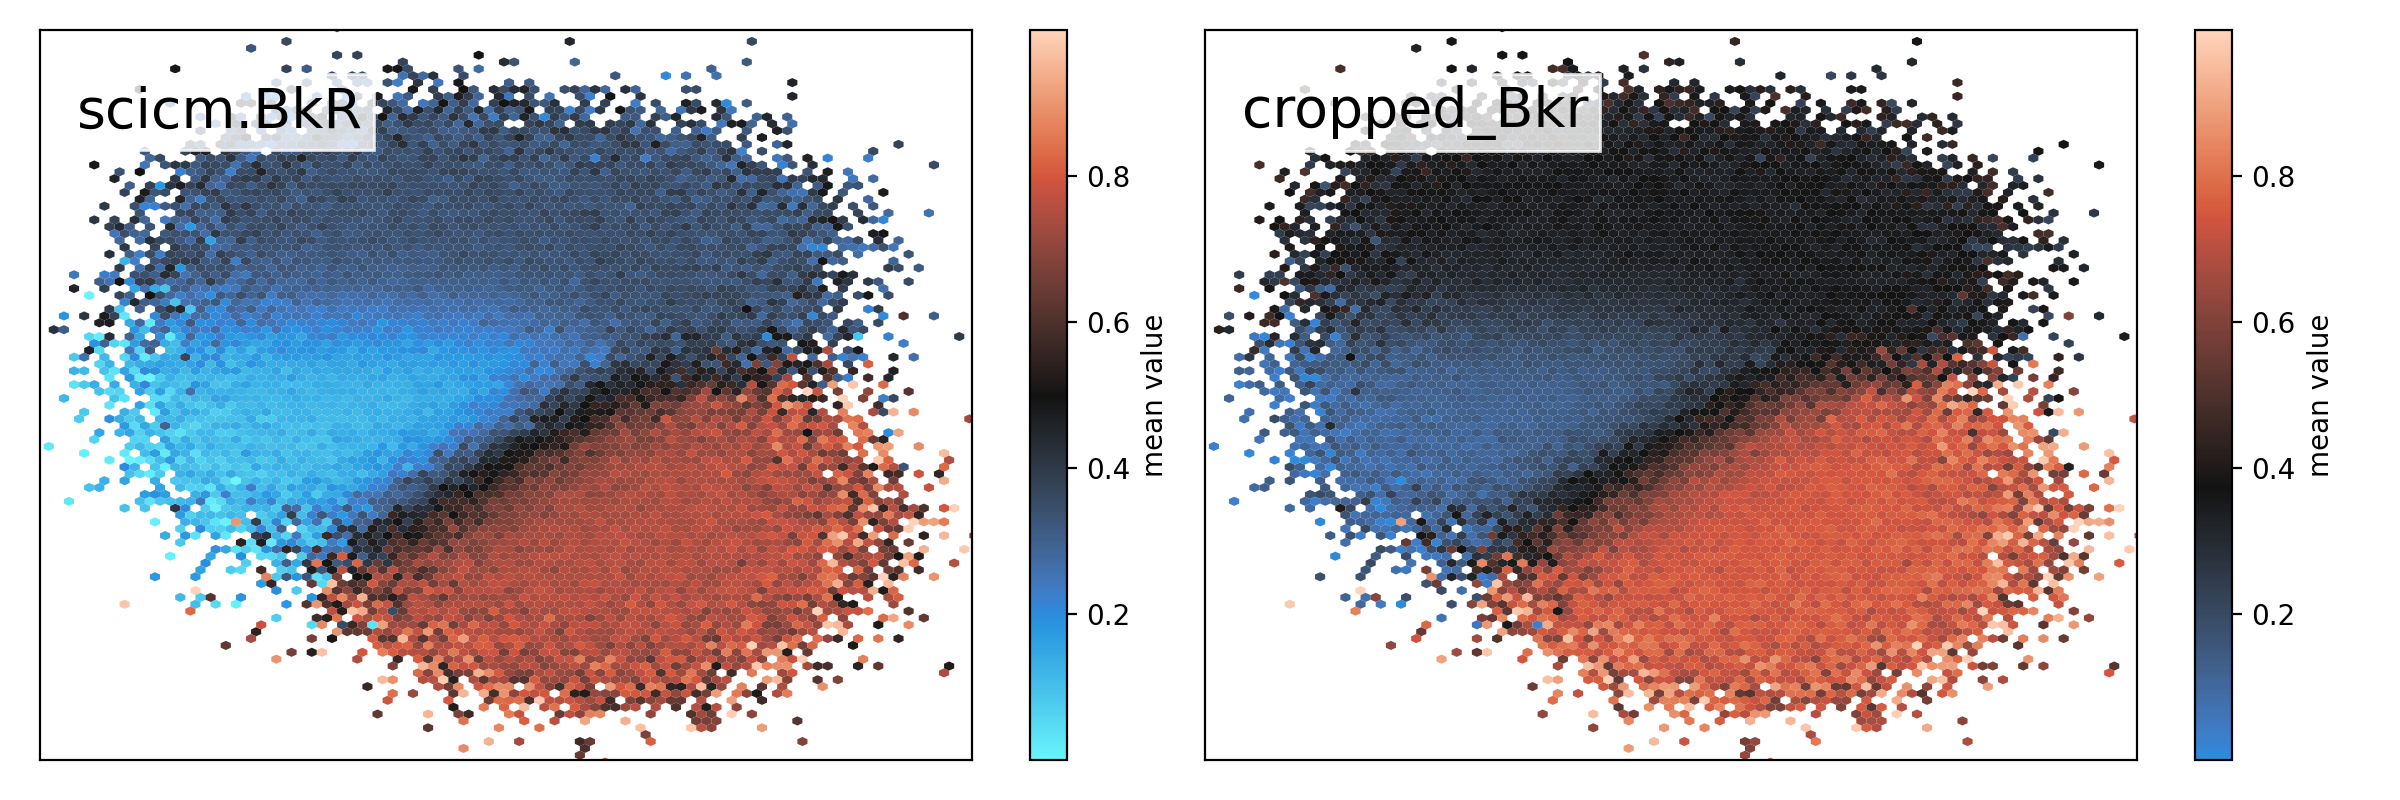
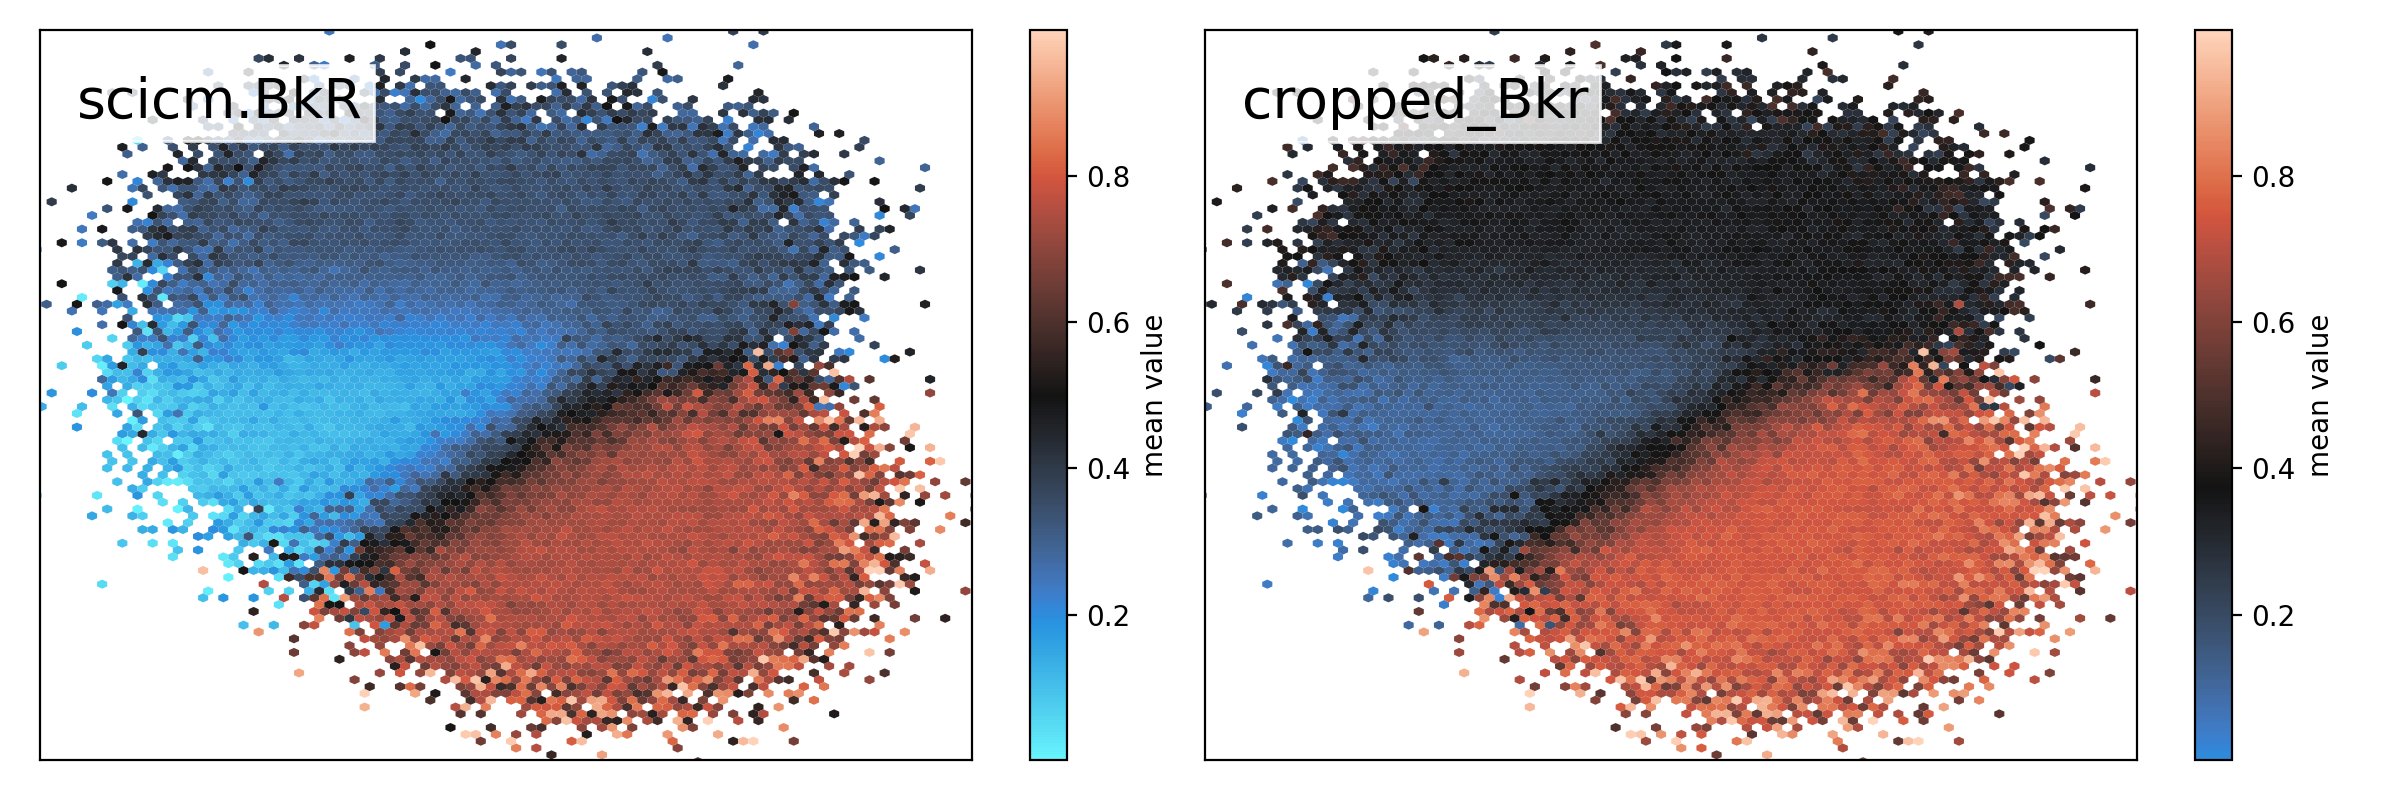
Fixing the image's links for the description in PyPI

diff --git a/README.md b/README.md
@@ -19,22 +19,22 @@ Upon importing scicm, the colour maps are registered with matplotlib, so they ca
 
 #### Monochromatic colour maps
 The first set of colour maps are meant as a replacement for the sequential colour maps from matplotlib. All are designed with the same dynamic range in lightness, which means that small value changes are equally distinct. The first set contains the colour maps designed as general-purpose, being not only perceptually linear but also lacking strong hue changes, which could mistakenly lead the eye to certain value ranges. This *near-constant* hue also ensures that they are all colourblind-friendly.
-![cmaps0](/examples/scicm_monochromatic.png)
+![](https://github.com/MBravoS/scicm/raw/master/examples/scicm_monochromatic.png)
 <br><br>
 
 #### Soft monochromatic colour maps
 A not uncommon use of colour maps is to display images/data on top of which further lines/markers will be drawn on top (e.g., drawing contours on top of an image), which can make the choice of colour for said lines/markers challenging, particularly if they overlap both light and dark areas of the image. Making the colour map lighter/darker with [alpha compositing](https://en.wikipedia.org/wiki/Alpha_compositing) is a common approach, but this makes the resulting maps non-perceptually linear. For this reason, this set offers ligther and less saturated versions of the monochromatic colour maps. This enables both a linear representation of the underlying data and increased visibility of lines/markers drawn on top. If this is not a concern, we recomend using maps from the monochromatic set, as they have a larger lightness dynamic range.
-![cmaps0](/examples/scicm_soft.png)
+![](https://github.com/MBravoS/scicm/raw/master/examples/scicm_soft.png)
 <br><br>
 
 #### Bichromatic colour maps
 The colour maps in this set contain small and simple hue changes compared to the monochromatic set, intended to transition from one hue to the other roughly halfway in the value range. These colour maps should be used when a greater differentiation between low and high values is desired. Not all of these maps are as colourblind-friendly, so we recommend checking the viscm visualisations before choosing one.
-![cmaps1](/examples/scicm_bichromatic.png)
+![](https://github.com/MBravoS/scicm/raw/master/examples/scicm_bichromatic.png)
 <br><br>
 
 #### Diverging colour maps
 This set is composed of diverging colour maps, which are intended to be used only when visualising data that is centered around a critical value. In most cases, the middle point is the darkest, as this clearly distinguishes the middle values from lack of data without the need to set the figure background to a colour other than white. The two colour maps that have a light middle point (*BwR* and *GwP*) add choices for cases where that is not a concern. All these colour maps span the same dynamic range in lightness on each side and across maps and are intended to be colourblind-friendly to a good degree. For ease of use, all these colourmaps are also registered with their inverse names (e.g., *PkG*, which is equivalent to *GkP_r*).
-![cmaps2](/examples/scicm_diverging.png)
+![](https://github.com/MBravoS/scicm/raw/master/examples/scicm_diverging.png)
 <br><br>
 
 #### Miscellaneous colour maps
@@ -43,7 +43,7 @@ The last set is composed of colour maps with special use cases:
 - *Garnet*, *Ripe* and *Tropical*: Linear colour maps that have been designed for plots where the intention is to highlight broad regions of the data through large variations in hue. For this purpose, they have been designed with less than half of the lightness dynamic range than our other linear maps. Due to these design choices, they are inherently less colourblind-friendly than the rest of the colour maps.
 - *Edges*: A linear colour map inspired by cmocean's Oxy. It uses *Stone* as a base, but with the notable distinction that for \[normalised\] values below 0.2 and above 0.8 it changes colour (to blue and yellow, respectively). This is intended to selectively highlight the extreme values of the data.
 - *Quartile*: An experimental colour map, composed of four linear segments of significantly different hues, though still perfectly linear in greyscale. This colour map is meant as an alternative to filled contours, as it displays information inside the contours that would be otherwise lost.
-![cmaps3](/examples/scicm_miscellaneous.png)
+![](https://github.com/MBravoS/scicm/raw/master/examples/scicm_miscellaneous.png)
 
 ### Included Tools
 All tools are part of the `scicm.tools` submodule. These tools are:
@@ -86,12 +86,12 @@ for ax,txt in zip(axes.flatten(),['Teal','SoftTeal','MkR_r','PkO','Edges','Tropi
     ax.set_xticks([])
     ax.set_yticks([])
     ax.set_xlim([-2,3])
-    ax.set_ylim([-3,3])
+    ax.set_ylim([-2.9,2.9])
 
 plt.tight_layout()
 plt.show()
 ```
-![example](/examples/README_ex1.png)
+![](https://github.com/MBravoS/scicm/raw/master/examples/README_ex1.png)
 
 #### Tools use examples:
 
@@ -108,7 +108,7 @@ for ax,txt in zip(axes.flatten(),['scicm.BkR','cropped_Bkr']):
     ax.set_xticks([])
     ax.set_yticks([])
     ax.set_xlim([-2,3])
-    ax.set_ylim([-3,3])
+    ax.set_ylim([-2.9,2.9])
 
 cbar0=fig.colorbar(h1,ax=axes[0])
 cbar0.set_label('mean value')
@@ -118,7 +118,7 @@ cbar1.set_label('mean value')
 plt.tight_layout()
 plt.show()
 ```
-![example2](/examples/README_ex2.png)
+![](https://github.com/MBravoS/scicm/raw/master/examples/README_ex2.png)
 ```python
 # Colour map merging and stitching
 Edges_M2R=scicm.tools.merge(['scicm.Stone','scicm.M2R','scicm.Stone'],[0.2,0.5],'custom.Edges_M2R')
@@ -133,7 +133,7 @@ for ax,txt in zip(axes.flatten(),['custom.Edges_M2R','custom.T2B2P']):
     ax.set_xticks([])
     ax.set_yticks([])
     ax.set_xlim([-2,3])
-    ax.set_ylim([-3,3])
+    ax.set_ylim([-2.9,2.9])
 
 cbar0=fig.colorbar(h1,ax=axes[0])
 cbar0.set_label('mean value')
@@ -143,4 +143,4 @@ cbar1.set_label('mean value')
 plt.tight_layout()
 plt.show()
 ```
-![example3](/examples/README_ex3.png)
+![](https://github.com/MBravoS/scicm/raw/master/examples/README_ex3.png)
